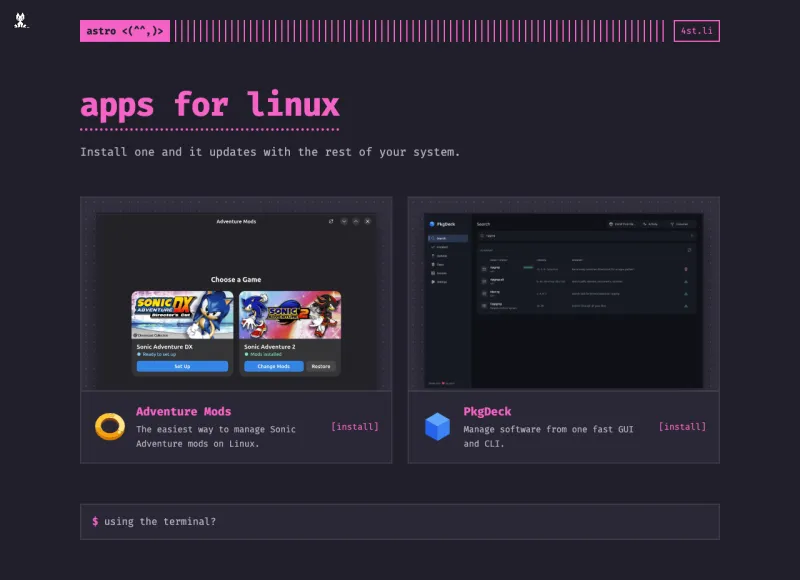
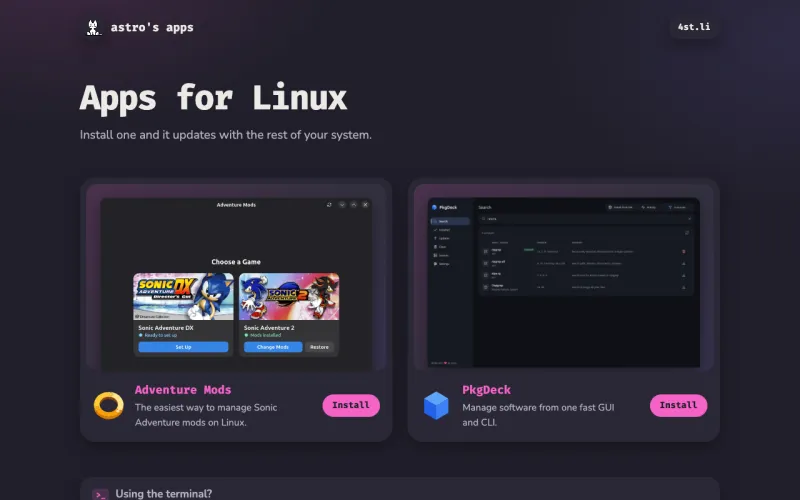
Update the magi and Flatpak repo pictures and let project pictures fill their cards (#98)

diff --git a/static/style.css b/static/style.css
@@ -371,3 +371,8 @@ a {
   max-width: 100%;
   height: auto;
 }
+
+/* Project pictures bleed to the card edges, so they skip that limit. */
+.post-content .project-image {
+  max-width: none;
+}
